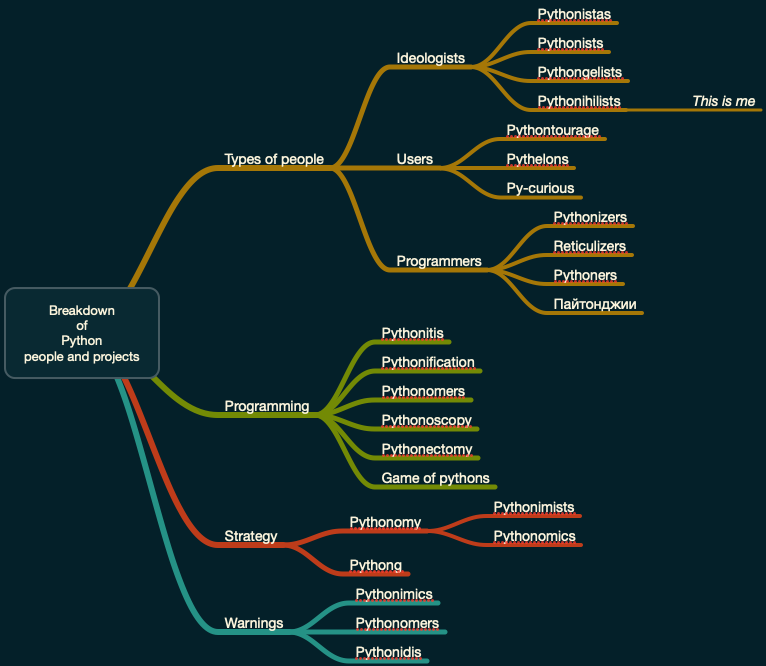
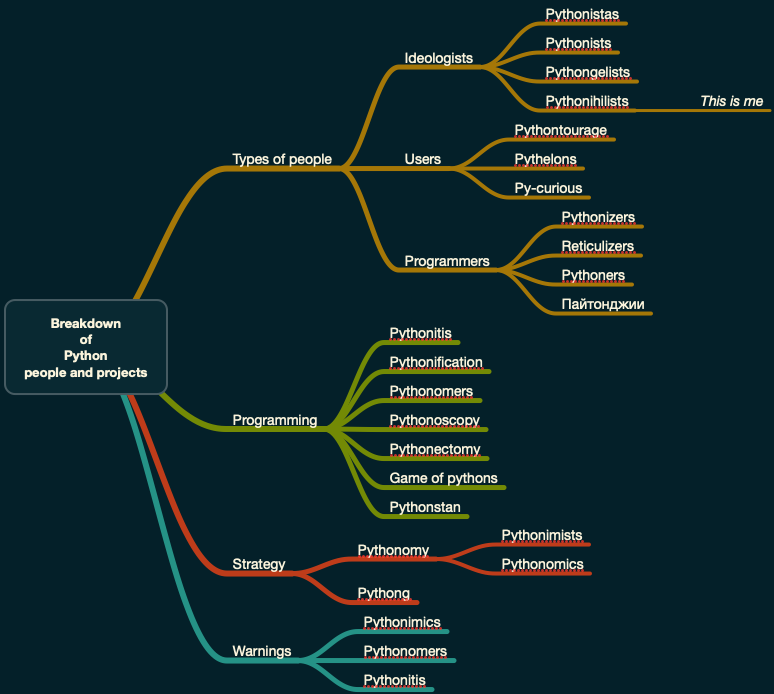
docs:Added "Pythonstan".

Changed region(s): [[0.1501, 0.0, 1.0, 0.4805], [0.2402, 0.4505, 0.7807, 0.8408], [0.03, 0.4505, 0.6005, 1.0]]

diff --git a/MarkdownDocuments/Breakdown-of-Python-people-and-projects.md b/MarkdownDocuments/Breakdown-of-Python-people-and-projects.md
@@ -74,6 +74,8 @@ In this section we give definitions (or clarifications) of the nodes of mind-map
 - **Game of pythons:** Attempting to install or update Python on particular machine usually shows 
   that there are too many Pythons, often, with competing agendas. 
 
+- **Pythonstan:** Generally speaking that is [PyPI.org](https://pypi.org). (Or any project with a similar scope.)
+
 ### Strategy
 
 - **Pythonomy:** Python-driven software architecture.  
